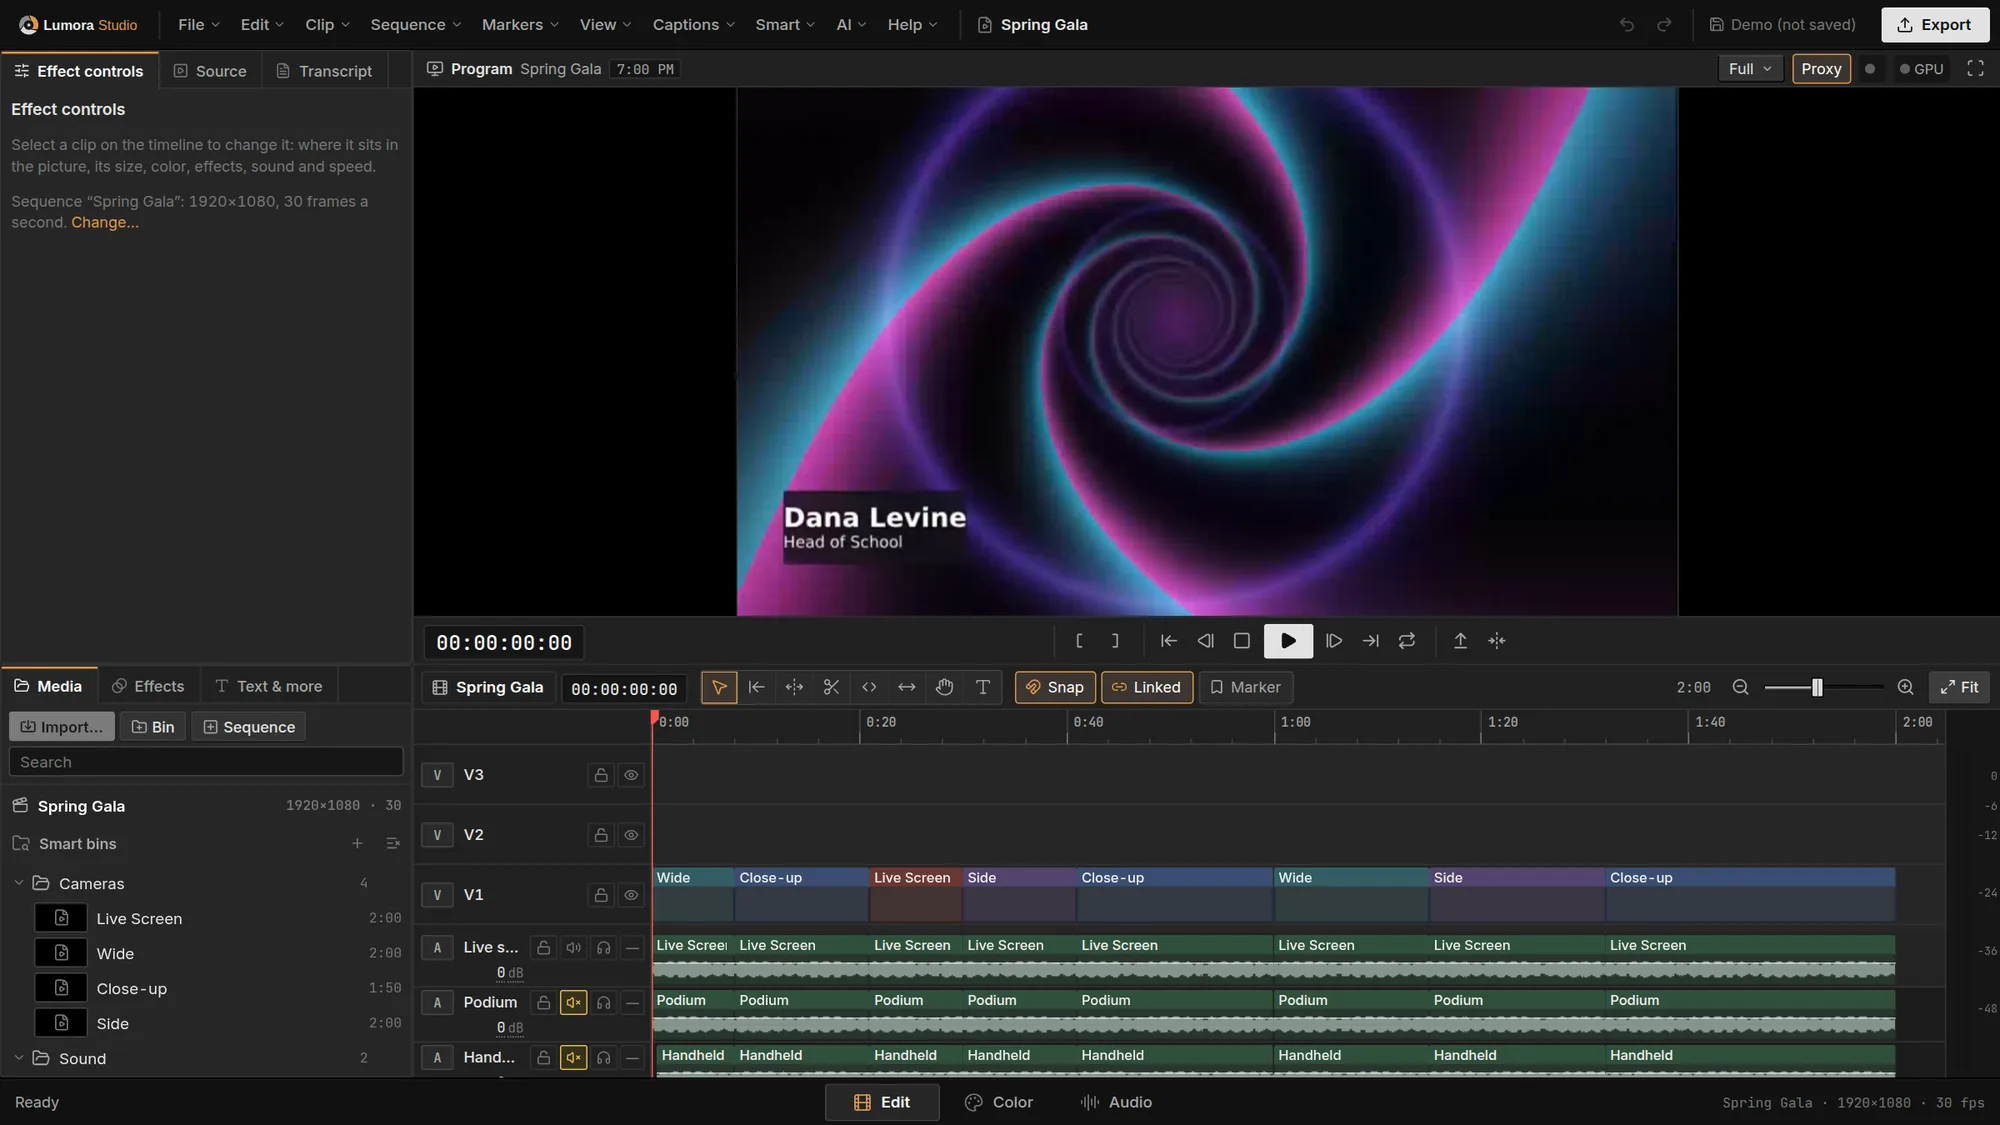
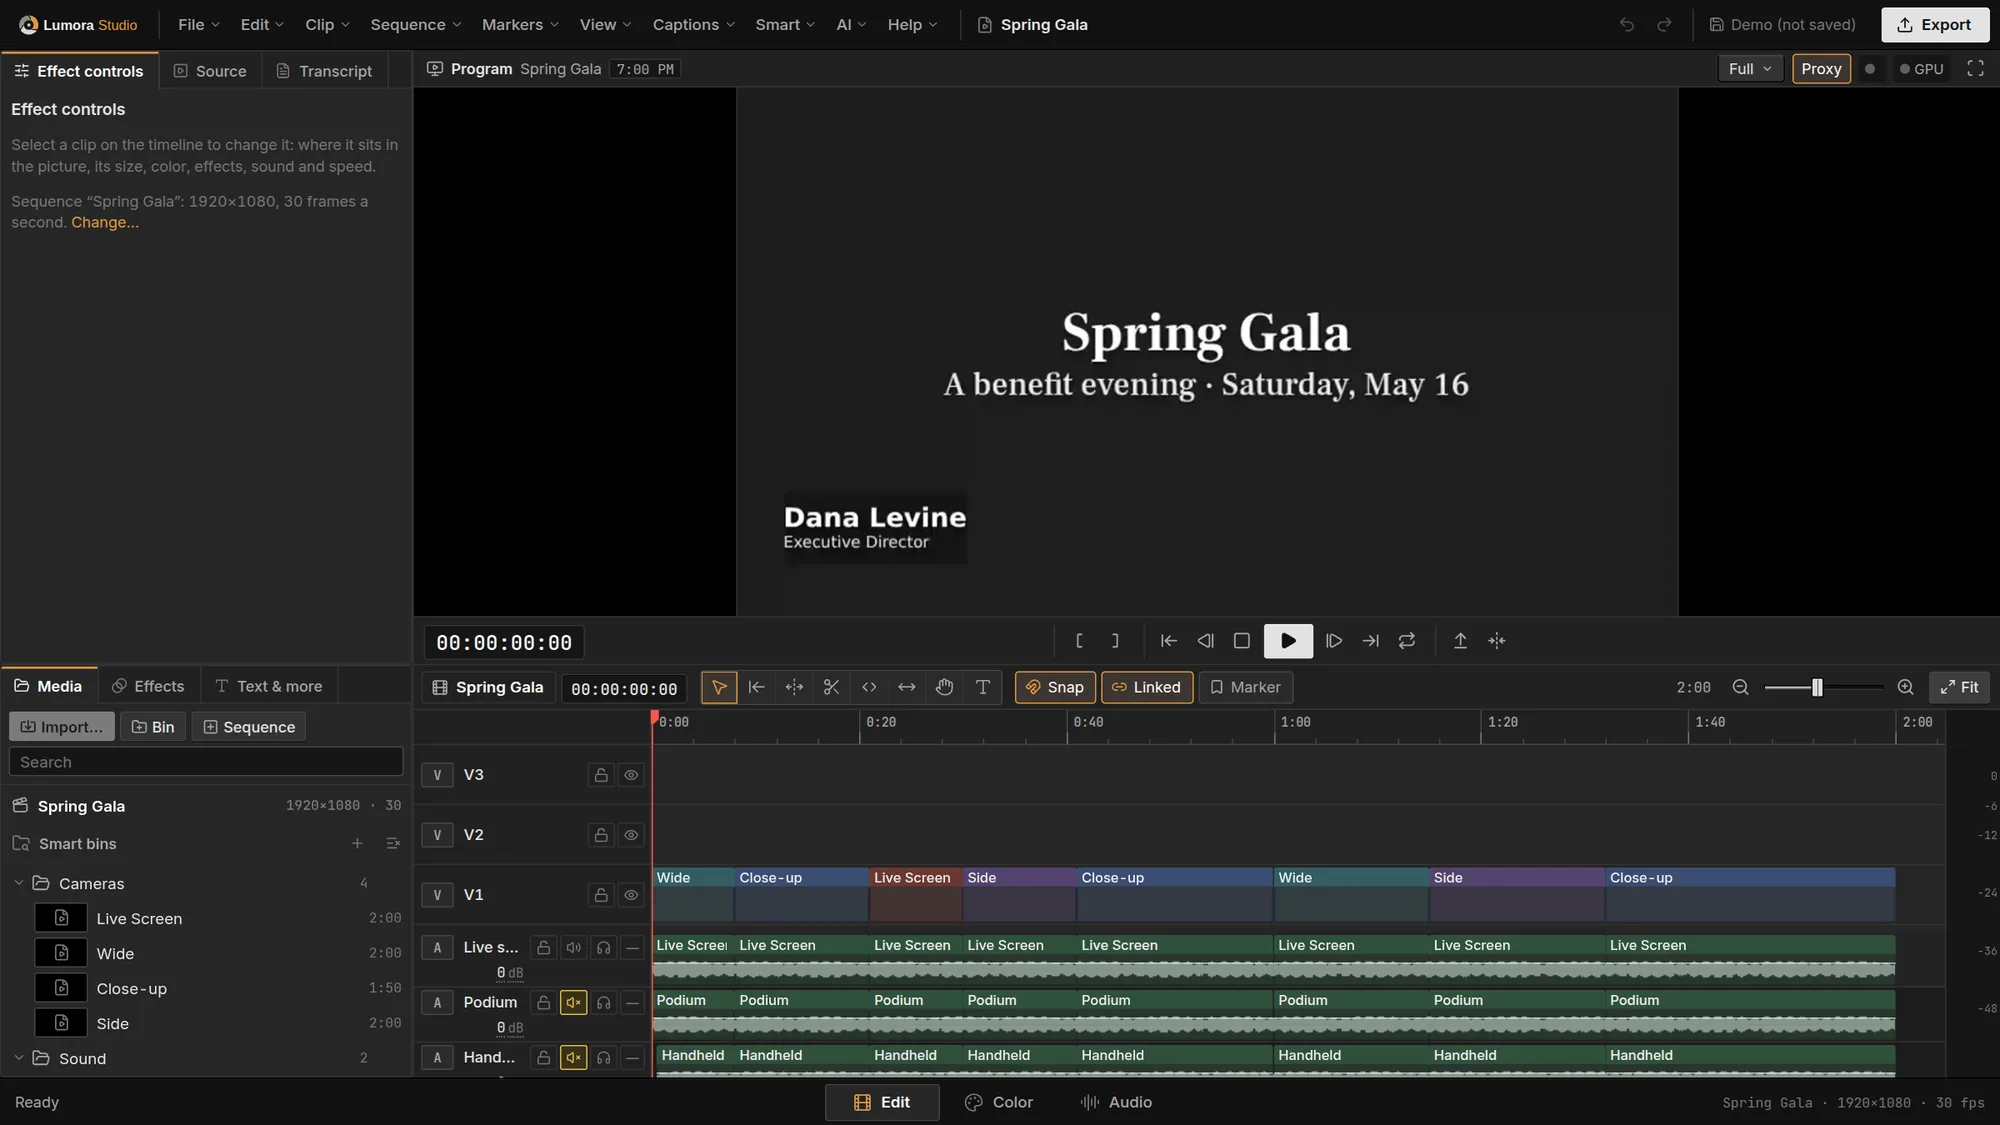
Website: neutral benefit gala, calm screenshots
No school wording: the example event is a spring benefit gala, and the
first speaker is the executive director. New screenshots show calm,
real program content instead of the neon spiral: the countdown on air
with a poll in Next, the event title with a lower third, Studio's Edit
and Color pages on that title, and Stage visuals on the Acoustic group
(Lanterns). The link preview image uses the new main window.

Claude-Session: https://claude.ai/code/session_015kLno7PFHPq4PGcGyYFnDV

Changed region(s): [[0.341, 0.0622, 0.837, 0.56]]

diff --git a/docs/index.html b/docs/index.html
@@ -64,7 +64,7 @@
           </div>
         </div>
         <p class="slate__how">
-          This page follows one event, a school's spring gala, from the planning meeting to the edit the morning after. Each entry is a moment of the night and
+          This page follows one event, a spring benefit gala, from the planning meeting to the edit the morning after. Each entry is a moment of the night and
           what Lumora does then.
         </p>
       </section>
@@ -231,20 +231,20 @@
               the same clock. When it reaches zero, the countdown can take the first cue by itself.
             </p>
             <p>
-              Between segments, the Back Screen plays stage visuals: twenty scenes grouped by tempo that move with the beat of the music, with an energy control
+              Between segments, the Back Screen plays stage visuals: calm or lively scenes grouped by tempo and style that move with the beat of the music, with an energy control
               and an autopilot that changes scene every few bars.
             </p>
           </div>
           <figure class="entry__wide">
             <img
               src="img/lumora-visuals.webp"
-              width="1400"
-              height="403"
+              width="2000"
+              height="830"
               loading="lazy"
               decoding="async"
-              alt="The Stage visuals window: a live preview of the Spiral scene, twenty scenes grouped by tempo, and controls for colors, zoom and spin."
+              alt="The Stage visuals window: a preview of the Lanterns scene, twenty scenes in the Acoustic group, and controls for colors, camera and motion."
             />
-            <figcaption>Stage visuals, set to Medium at 100 beats a minute.</figcaption>
+            <figcaption>Stage visuals, set to the Acoustic group at 84 beats a minute.</figcaption>
           </figure>
         </section>
 
@@ -265,9 +265,9 @@
               height="1125"
               loading="lazy"
               decoding="async"
-              alt="The Lumora main screen during the gala: a poll lined up in Next on the left, stage visuals with a lower third for Dana Levine on air on the right, the switcher between them, eight inputs below and the audio mixer with two microphones."
+              alt="The Lumora main screen just before the gala starts: a poll lined up in Next on the left, the Starting soon countdown on air on the right, the switcher between them, eight inputs below and the audio mixer with two microphones."
             />
-            <figcaption>The main window. Next on the left, On air on the right, the inputs and the mixer below.</figcaption>
+            <figcaption>The main window a few minutes before the start: the countdown on air, a poll lined up in Next, the inputs and the mixer below.</figcaption>
           </figure>
           <dl class="facts">
             <div>
@@ -301,7 +301,7 @@
           <div class="entry__body">
             <h2 id="welcome-h"><span class="sr">7:34 PM. </span>Welcome.</h2>
             <p>
-              The head of school walks to the podium. Her name and title come up on the stream as a lower third in your colors, fonts and logo, set once for
+              The executive director walks to the podium. Her name and title come up on the stream as a lower third in your colors, fonts and logo, set once for
               every title, ticker and scoreboard. Lumora includes 500 open-source fonts that work offline, and you can add your own.
             </p>
             <p>
@@ -316,9 +316,9 @@
               height="520"
               loading="lazy"
               decoding="async"
-              alt="The On air monitor: stage visuals with a lower third that reads Dana Levine, Head of School."
+              alt="The On air monitor: a Spring Gala title on a charcoal background, with a lower third that reads Dana Levine, Executive Director."
             />
-            <figcaption>On air: a lower third over the stage visuals.</figcaption>
+            <figcaption>On air: the event title, with a lower third for the first speaker.</figcaption>
           </figure>
         </section>
 
